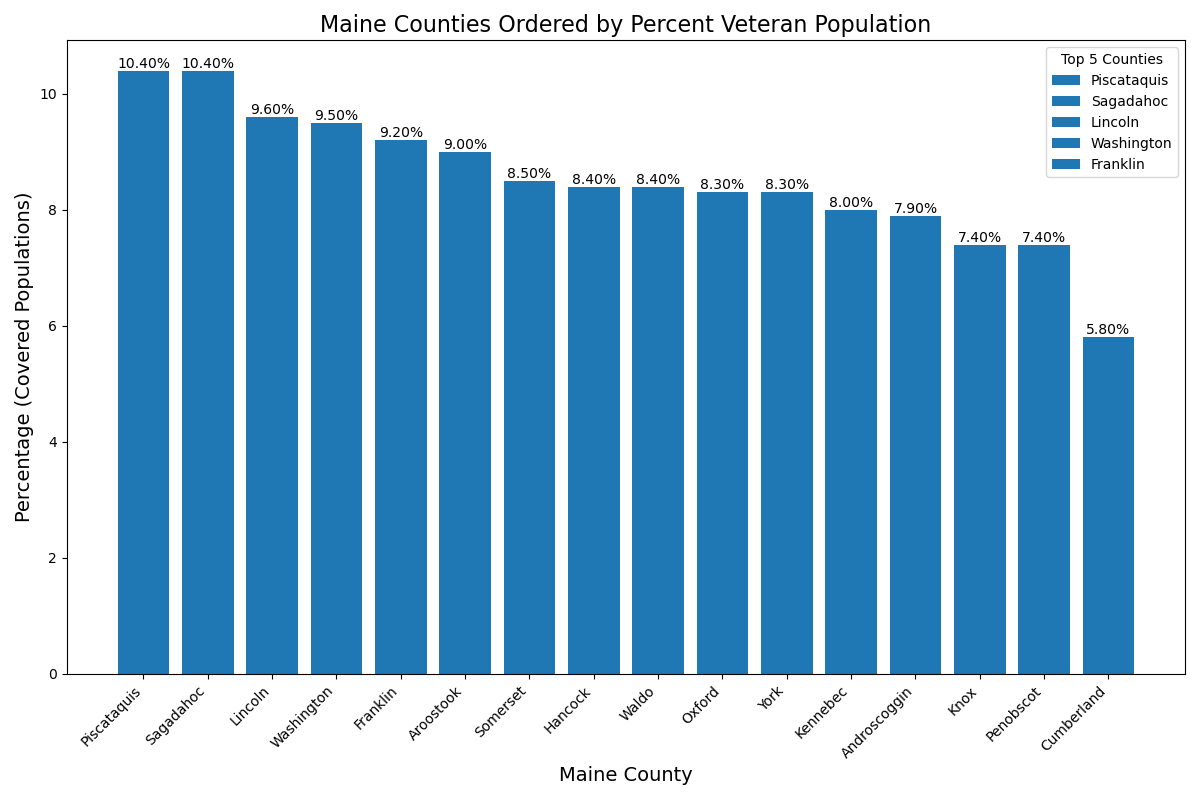
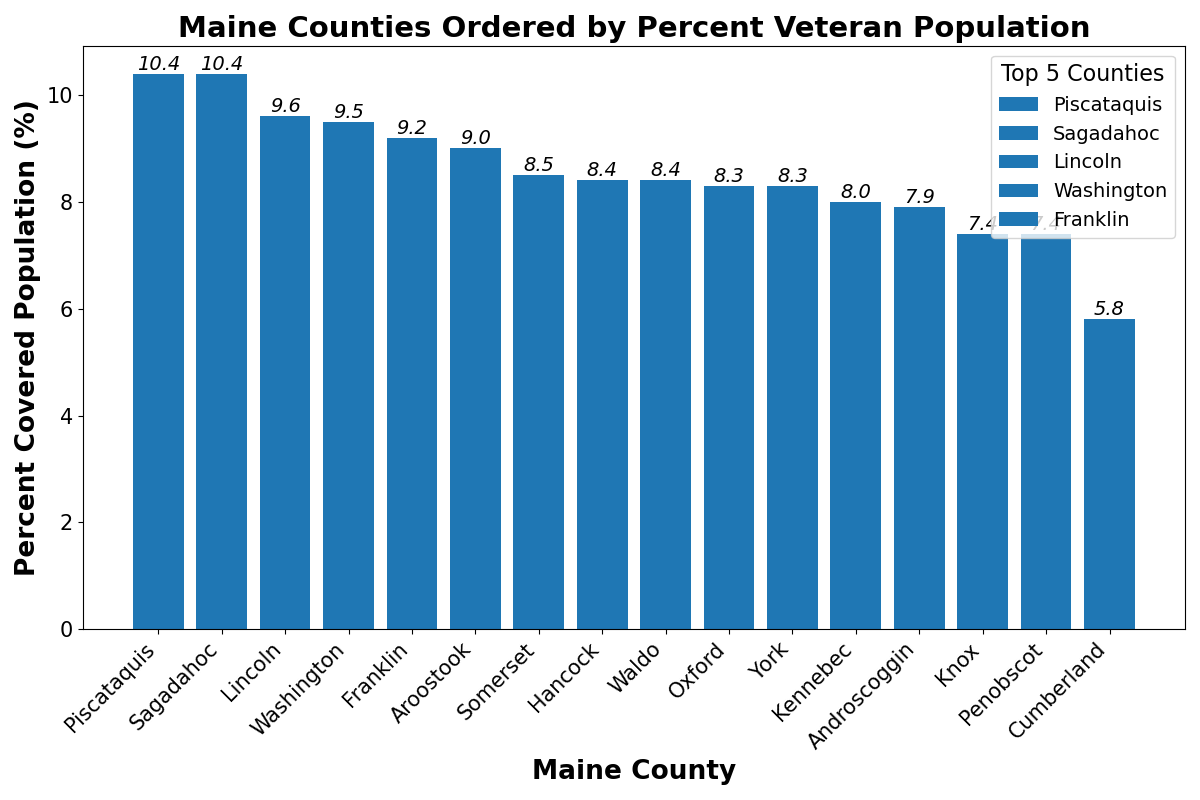
Fixed bargraphs/README
- Made bargraphs easier to read

diff --git a/src/bar_graphs.py b/src/bar_graphs.py
@@ -26,13 +26,14 @@ def graph_data(data, column_name, title, county_nu=16):  # Defaults to plotting 
 
     # Adding percentages over bars
     for i, value in enumerate(highcounties[column_name]):
-        plt.text(i, value, f'{value:.2f}%', ha='center', va='bottom')
+        plt.text(i, value, f'{value:.1f}', ha='center', va='bottom', fontsize=14, fontstyle='oblique')
 
-    plt.xlabel('Maine County', fontsize=14)
-    plt.ylabel('Percentage (Covered Populations)', fontsize=14)
-    plt.title(f'Maine Counties Ordered by Percent {title} Population', fontsize=16)
-    plt.xticks(range(county_nu), highcounties['geography_name'], rotation=45, ha='right')
-    plt.legend(title="Top 5 Counties")  # Legend will now show only for the top 5 counties
+    plt.xlabel('Maine County', fontsize=19, fontweight='bold')
+    plt.ylabel('Percent Covered Population (%)', fontsize=19, fontweight='bold')
+    plt.title(f'Maine Counties Ordered by Percent {title} Population', fontsize=21, fontweight='bold')
+    plt.xticks(range(county_nu), highcounties['geography_name'], rotation=45, ha='right', fontsize=15)
+    plt.yticks(fontsize=15)
+    plt.legend(title="Top 5 Counties", fontsize=14, title_fontsize=16)  # Legend will now show only for the top 5 counties
     plt.tight_layout()
     plt.savefig(f'figs/bargraphs/{column_name}_bar.png')
     plt.close()

diff --git a/README.md b/README.md
@@ -113,26 +113,26 @@ The following command will plot bar graphs that compare all 16 of Maine's counti
 make bars
 ```
 <p align="center">
-    <img src="figs/bargraphs/pct_ipr_pop_bar.png" width="550">
+    <img src="figs/bargraphs/pct_ipr_pop_bar.png" width="600">
 </p><br>
 <p align="center">
-    <img src="figs/bargraphs/pct_aging_pop_bar.png" width="550">
+    <img src="figs/bargraphs/pct_aging_pop_bar.png" width="600">
 </p><br>
 <p align="center">
-    <img src="figs/bargraphs/pct_incarc_pop_bar.png" width="550">
+    <img src="figs/bargraphs/pct_incarc_pop_bar.png" width="600">
 </p><br>
 <p align="center">
-    <img src="figs/bargraphs/pct_dis_pop_bar.png" width="550">
+    <img src="figs/bargraphs/pct_dis_pop_bar.png" width="600">
 </p><br>
 <p align="center">
-    <img src="figs/bargraphs/pct_vet_pop_bar.png" width="550">
+    <img src="figs/bargraphs/pct_vet_pop_bar.png" width="600">
 </p><br>
 <p align="center">
-    <img src="figs/bargraphs/pct_lang_barrier_pop_bar.png" width="550">
+    <img src="figs/bargraphs/pct_lang_barrier_pop_bar.png" width="600">
 </p><br>
 <p align="center">
-    <img src="figs/bargraphs/pct_minority_pop_bar.png" width="550">
+    <img src="figs/bargraphs/pct_minority_pop_bar.png" width="600">
 </p><br>
 <p align="center">
-    <img src="figs/bargraphs/pct_rural_pop_bar.png" width="550">
+    <img src="figs/bargraphs/pct_rural_pop_bar.png" width="600">
 </p><br>
